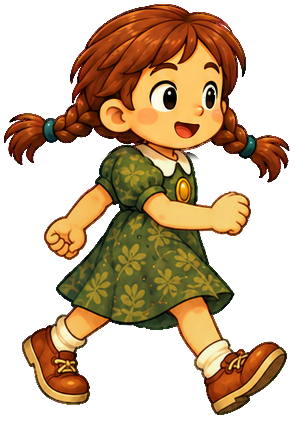
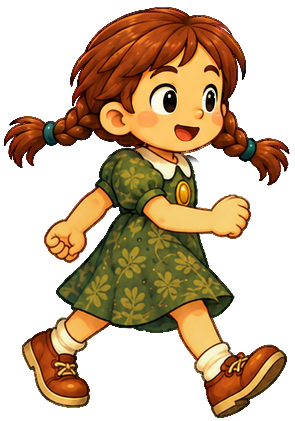
welle-041 · Runde 3: Gang 1→2→3→2 (keine zwei Kontaktposen hintereinander) · walk3 auf walk1-Bodenlinie

Changed region(s): [[0.0, 0.0, 1.0, 1.0]]

diff --git a/packages/game-paint/src/anim.ts b/packages/game-paint/src/anim.ts
@@ -1076,6 +1076,14 @@ const CLASSMATE_CELLS: Record<string, readonly [string, string]> = {
 // sie hier eigens und nicht in der Paar-Tabelle darüber. Sie lagen seit dem
 // Import ohne einen einzigen Leser im Repo; das ist der Leser.
 const ROAM_CELLS = ["walk1", "walk2", "walk3"] as const;
+/** welle-041 · DER GANG IST VIER SCHLÄGE, NICHT DREI. `walk1` und `walk3` sind die
+ *  zwei Kontaktposen, `walk2` die Durchgangspose. Im Kreis 1→2→3→1 standen zwei
+ *  Kontaktposen direkt hintereinander (3→1) — der blinde Kunst-Leser las das als
+ *  Hinken. Der Kreis ist deshalb 1→2→3→2, und jede Zelle steht wie vorher
+ *  IDLE_CYCLE_TICKS/3 Takte: dasselbe Tempo, nur ohne Stolpern. */
+export const ROAM_CYCLE = ["walk1", "walk2", "walk3", "walk2"] as const;
+const ROAM_TICKS_PER_CELL = Math.max(1, Math.round(IDLE_CYCLE_TICKS / ROAM_CELLS.length));
+export const roamCell = (timer: number): string => ROAM_CYCLE[bobFrame(timer, ROAM_CYCLE.length, ROAM_TICKS_PER_CELL)] ?? ROAM_CYCLE[0];
 /** Der Hüpfer trägt ihre Freuden-Zelle: es ist die einzige gemalte, in der sie
  *  vom Boden abhebt — und sie stimmt inhaltlich, denn genau darum hüpft sie. */
 const HOP_CELL = "joy";
@@ -1101,7 +1109,7 @@ export const classmateCell = (state: string, timer: number): string => {
   // und er teilt sich die Uhr mit ihm (roamHopT liest denselben `timer`), damit
   // gezeichneter Sprung und gehobener Körper derselbe Moment sind.
   if (state === "roam") {
-    return roamHopT(timer) > 0 ? HOP_CELL : (ROAM_CELLS[bobFrame(timer, ROAM_CELLS.length)] ?? ROAM_CELLS[0]);
+    return roamHopT(timer) > 0 ? HOP_CELL : roamCell(timer);
   }
   const named = CLASSMATE_CELLS[state];
   if (named) return named[bobFrame(timer, 2)] ?? named[0];
@@ -1120,7 +1128,7 @@ export const entPoseCell = (e: EntPoseInput): string => {
   // fall back to her idle. A person acting out a wrong action is not a dazed
   // enemy, and a freed friend waving is not a dazed one either.
   if (e.role === "classmate" && e.state === "follow" && e.companion) {
-    return e.companion.pose === "jump" ? HOP_CELL : e.companion.pose === "walk" ? (ROAM_CELLS[bobFrame(e.timer, ROAM_CELLS.length)] ?? ROAM_CELLS[0]) : classmateCell("rest", e.timer);
+    return e.companion.pose === "jump" ? HOP_CELL : e.companion.pose === "walk" ? roamCell(e.timer) : classmateCell("rest", e.timer);
   }
   if (e.role === "classmate") return classmateCell(e.state, e.timer);
   // PK-R6 · D · AN OPENED CAGE IS DRAWN OPEN. Read before the dazed catch-all,

diff --git a/packages/game-paint/src/f5-feel.test.ts b/packages/game-paint/src/f5-feel.test.ts
@@ -26,7 +26,7 @@ import {
   treasureSpinSx,
   treasureTurns,
 } from "./cue.ts";
-import { classmateCell } from "./anim.ts";
+import { classmateCell, roamCell } from "./anim.ts";
 import {
   FRENZY_FLIP_TICKS,
   FRENZY_REACH_PX,
@@ -578,6 +578,17 @@ describe("R5-F5 · Merle geht herum (F-26, R49)", () => {
     const zellen = new Set(Array.from({ length: HOP_EVERY_TICKS }, (_, t) => classmateCell("roam", t)));
     for (const c of ["walk1", "walk2", "walk3"]) expect(zellen).toContain(c);
     expect(classmateCell("roam", Math.round(HOP_TICKS / 2))).toBe("joy");
+  });
+
+  it("welle-041 · ihr Gang stolpert nicht: zwischen zwei Kontaktposen steht immer die Durchgangspose, im alten Tempo", () => {
+    const folge: string[] = [];
+    for (let t = 0; t < 96; t++) { const c = roamCell(t); if (folge[folge.length - 1] !== c) folge.push(c); }
+    const kontakt = new Set(["walk1", "walk3"]);
+    for (let i = 1; i < folge.length; i++) expect(kontakt.has(folge[i]!) && kontakt.has(folge[i - 1]!), `${folge[i - 1]}>${folge[i]}`).toBe(false);
+    expect(folge.join(">")).toContain("walk1>walk2>walk3>walk2>walk1");
+    const lauf = Array.from({ length: 64 }, (_, t) => roamCell(t));
+    expect(lauf.slice(0, 8).every((c) => c === "walk1")).toBe(true);
+    expect(lauf[8]).toBe("walk2");
   });
 
   it("nach dem Remount steht sie erst einmal (und geht erst nach ihrer Ruhe los)", () => {

diff --git a/docs/art/ch01-welle041/README.md b/docs/art/ch01-welle041/README.md
@@ -17,7 +17,7 @@ Das Quellblatt `merle/merle-motion-v2-original.png` hat nur sechs Posen, alle sc
 **Zweiter Durchgang (blinder Kunst-Leser + Widerleger, welle-041):** Der erste `settle0` (überrascht, Hände offen, aus `merle_a`)
 flackerte im Wechsel mit `settle1` (lachend, Fäuste) und war 5 % kleiner — ersetzt durch eine Zelle aus `settle1` selbst. Der erste
 `walk3` las sich als Kopie von `walk1` (Arme gleich) — ersetzt durch einen Auftrag mit ausdrücklich vertauschtem Armschwung. Die ersten
-Versuche liegen nicht im Repo.
+Versuche liegen nicht im Repo. Die Geh-Schleife läuft seit dieser Runde 1→2→3→2 (`anim.ts` `ROAM_CYCLE`): im alten Kreis 1→2→3→1 folgten zwei Kontaktposen aufeinander, und nahes und fernes Bein sind unter dem Kleid nicht zu unterscheiden — das las sich als Hinken. `walk3` steht 3 px tiefer auf der Bodenlinie von `walk1`.
 
 Bleibt bytegleich und steht NICHT auf der Karte: `merle_joy = merle_joy1` (Hüpfer ohne zweite Zelle) und `merle_a–d` (Leerlauf still).
 
